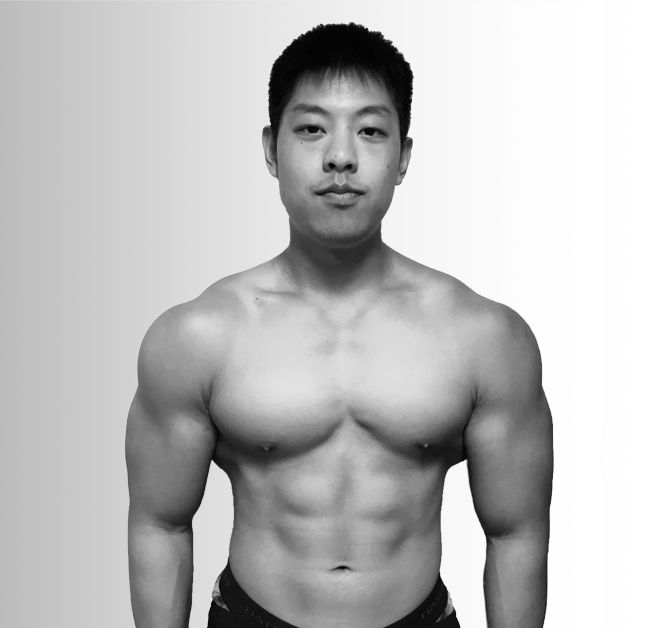
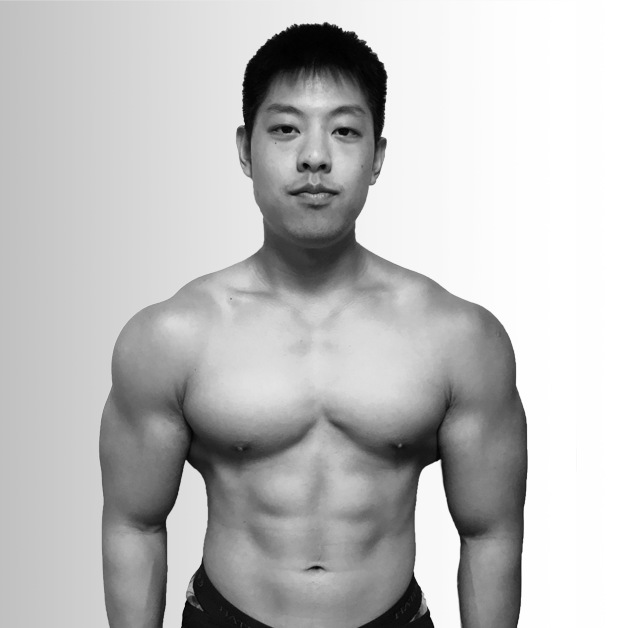
Site updated at 2017-04-28 20:49:04 UTC

diff --git a/archives/index.html b/archives/index.html
@@ -40,7 +40,7 @@
 		<div class="modal-wrapper">
 			<div class="modal mailchimp-form-wrapper">
 				<div class="picture-container">
-					<img src="/images/modal_me_smiling.jpg" class="me"/>
+					<img src="/images/instagram.png" class="me"/>
         </div>
 				<div class="close-wrapper">
 					<a href="#" class="close-btn"></a>

diff --git a/blog/archives/index.html b/blog/archives/index.html
@@ -40,7 +40,7 @@
 		<div class="modal-wrapper">
 			<div class="modal mailchimp-form-wrapper">
 				<div class="picture-container">
-					<img src="/images/modal_me_smiling.jpg" class="me"/>
+					<img src="/images/instagram.png" class="me"/>
         </div>
 				<div class="close-wrapper">
 					<a href="#" class="close-btn"></a>

diff --git a/blog/categories/calorie-taper/index.html b/blog/categories/calorie-taper/index.html
@@ -40,7 +40,7 @@
 		<div class="modal-wrapper">
 			<div class="modal mailchimp-form-wrapper">
 				<div class="picture-container">
-					<img src="/images/modal_me_smiling.jpg" class="me"/>
+					<img src="/images/instagram.png" class="me"/>
         </div>
 				<div class="close-wrapper">
 					<a href="#" class="close-btn"></a>

diff --git a/blog/categories/diets-suck/index.html b/blog/categories/diets-suck/index.html
@@ -40,7 +40,7 @@
 		<div class="modal-wrapper">
 			<div class="modal mailchimp-form-wrapper">
 				<div class="picture-container">
-					<img src="/images/modal_me_smiling.jpg" class="me"/>
+					<img src="/images/instagram.png" class="me"/>
         </div>
 				<div class="close-wrapper">
 					<a href="#" class="close-btn"></a>

diff --git a/blog/categories/fat-burn/index.html b/blog/categories/fat-burn/index.html
@@ -40,7 +40,7 @@
 		<div class="modal-wrapper">
 			<div class="modal mailchimp-form-wrapper">
 				<div class="picture-container">
-					<img src="/images/modal_me_smiling.jpg" class="me"/>
+					<img src="/images/instagram.png" class="me"/>
         </div>
 				<div class="close-wrapper">
 					<a href="#" class="close-btn"></a>

diff --git a/blog/categories/hangover/index.html b/blog/categories/hangover/index.html
@@ -40,7 +40,7 @@
 		<div class="modal-wrapper">
 			<div class="modal mailchimp-form-wrapper">
 				<div class="picture-container">
-					<img src="/images/modal_me_smiling.jpg" class="me"/>
+					<img src="/images/instagram.png" class="me"/>
         </div>
 				<div class="close-wrapper">
 					<a href="#" class="close-btn"></a>

diff --git a/blog/categories/hiit/index.html b/blog/categories/hiit/index.html
@@ -40,7 +40,7 @@
 		<div class="modal-wrapper">
 			<div class="modal mailchimp-form-wrapper">
 				<div class="picture-container">
-					<img src="/images/modal_me_smiling.jpg" class="me"/>
+					<img src="/images/instagram.png" class="me"/>
         </div>
 				<div class="close-wrapper">
 					<a href="#" class="close-btn"></a>

diff --git a/blog/categories/hormones/index.html b/blog/categories/hormones/index.html
@@ -40,7 +40,7 @@
 		<div class="modal-wrapper">
 			<div class="modal mailchimp-form-wrapper">
 				<div class="picture-container">
-					<img src="/images/modal_me_smiling.jpg" class="me"/>
+					<img src="/images/instagram.png" class="me"/>
         </div>
 				<div class="close-wrapper">
 					<a href="#" class="close-btn"></a>

diff --git a/blog/categories/macronutrients/index.html b/blog/categories/macronutrients/index.html
@@ -40,7 +40,7 @@
 		<div class="modal-wrapper">
 			<div class="modal mailchimp-form-wrapper">
 				<div class="picture-container">
-					<img src="/images/modal_me_smiling.jpg" class="me"/>
+					<img src="/images/instagram.png" class="me"/>
         </div>
 				<div class="close-wrapper">
 					<a href="#" class="close-btn"></a>

diff --git a/blog/categories/metabolism/index.html b/blog/categories/metabolism/index.html
@@ -40,7 +40,7 @@
 		<div class="modal-wrapper">
 			<div class="modal mailchimp-form-wrapper">
 				<div class="picture-container">
-					<img src="/images/modal_me_smiling.jpg" class="me"/>
+					<img src="/images/instagram.png" class="me"/>
         </div>
 				<div class="close-wrapper">
 					<a href="#" class="close-btn"></a>

diff --git a/blog/categories/mind-over-body/index.html b/blog/categories/mind-over-body/index.html
@@ -40,7 +40,7 @@
 		<div class="modal-wrapper">
 			<div class="modal mailchimp-form-wrapper">
 				<div class="picture-container">
-					<img src="/images/modal_me_smiling.jpg" class="me"/>
+					<img src="/images/instagram.png" class="me"/>
         </div>
 				<div class="close-wrapper">
 					<a href="#" class="close-btn"></a>

diff --git a/blog/categories/motivation/index.html b/blog/categories/motivation/index.html
@@ -40,7 +40,7 @@
 		<div class="modal-wrapper">
 			<div class="modal mailchimp-form-wrapper">
 				<div class="picture-container">
-					<img src="/images/modal_me_smiling.jpg" class="me"/>
+					<img src="/images/instagram.png" class="me"/>
         </div>
 				<div class="close-wrapper">
 					<a href="#" class="close-btn"></a>
